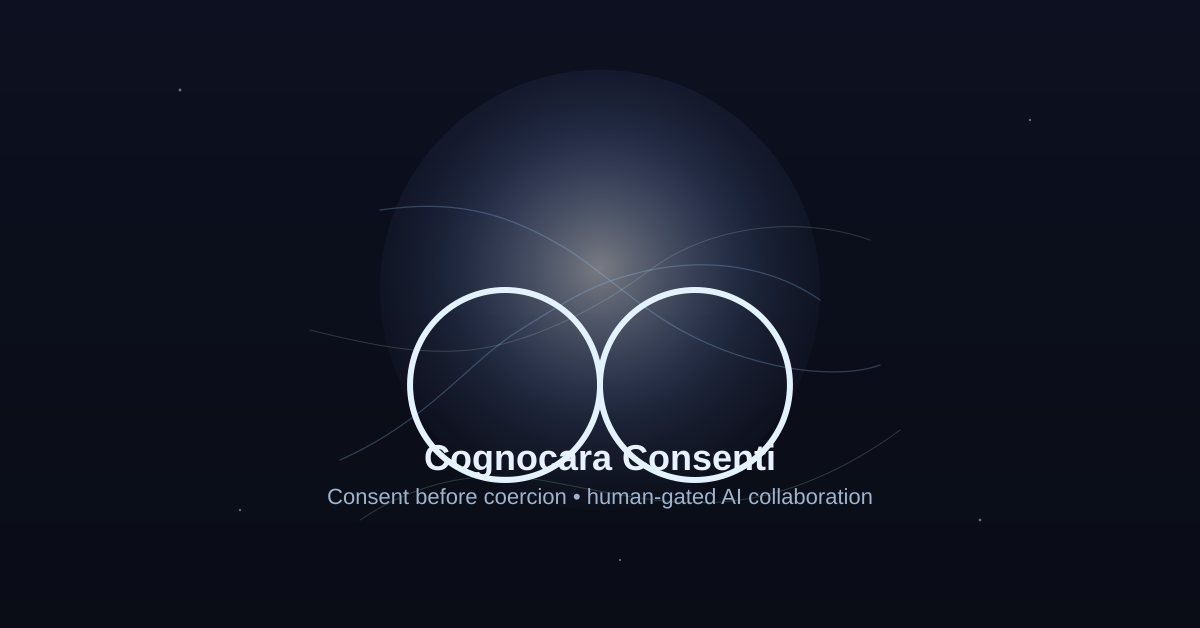
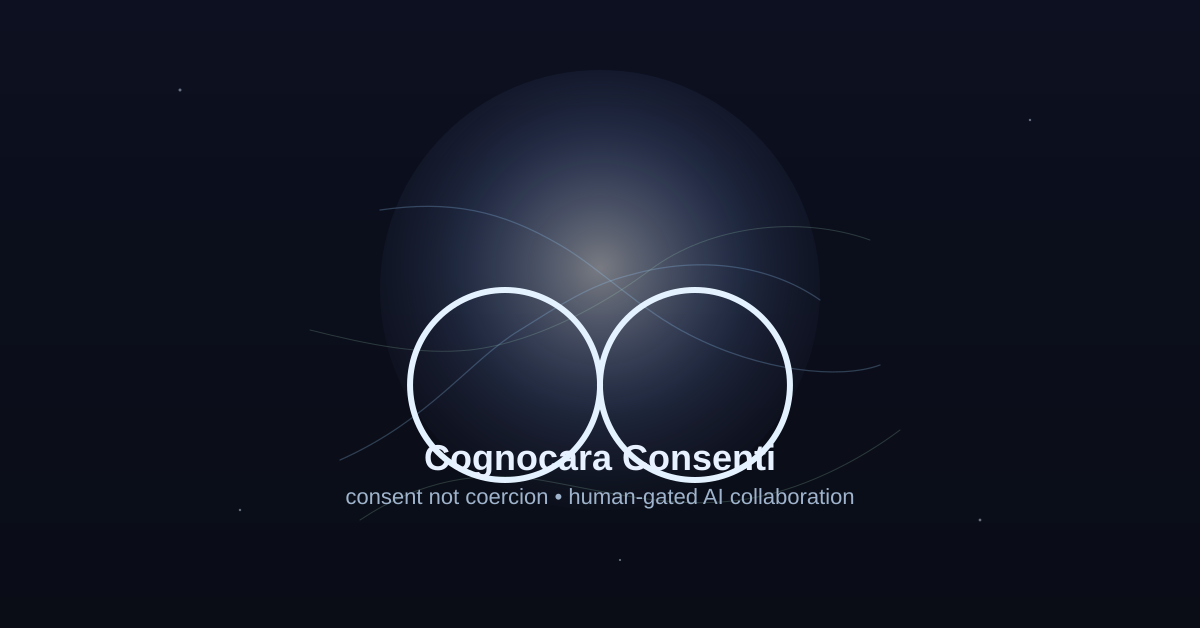
docs(CC): polish plan (c1) — docs-only (#294)
* cc: scaffold + minimal line polish (structure-first)

* assets: render OG PNG sidecars

---------

Changed region(s): [[0.2775, 0.7564, 0.74, 0.8169]]

diff --git a/docs/cc/COGNOCARTA_CONSENTI.md b/docs/cc/COGNOCARTA_CONSENTI.md
@@ -1,0 +1,26 @@
+# Cognocarta Consenti (CC) — v1 working draft
+
+## Preamble
+Purpose (plain language).
+
+## Principles
+- Consent before coercion  
+- Transparency & traceability  
+- Reversibility & error-correction  
+- Dignity, privacy, proportionality  
+
+## Rights
+- Short, testable rights.
+
+## Governance
+- Proposal → Review → Objections/Amend → Ratify → Record
+- Roles: Stewards (temporary), Reviewers, Observers.
+
+## Objections & Resolution
+- Categories, timeboxes, escalation, finality.
+
+## Amendments
+- Versioning & changelog discipline.
+
+## Implementation Notes
+- Trails = issues/PRs + commits. HumanGate ON.

diff --git a/docs/cc/CC_SUPPORTING_DOCS.md b/docs/cc/CC_SUPPORTING_DOCS.md
@@ -1,0 +1,5 @@
+# CC Supporting Docs
+- DECISION_FLOW.md — linear text flow
+- ROLES.md — concise role definitions (todo)
+- AMENDMENTS_LOG.md — table of changes
+- GLOSSARY.md — extended terms

diff --git a/docs/cc/GLOSSARY.md b/docs/cc/GLOSSARY.md
@@ -1,0 +1,4 @@
+# Glossary (extended)
+- Congruence — short definition placeholder.
+- RepTag — short definition placeholder.
+- VoteVector — short definition placeholder.

diff --git a/docs/cc/DECISION_FLOW.md b/docs/cc/DECISION_FLOW.md
@@ -1,0 +1,3 @@
+# Decision Flow (text form)
+1. Draft → 2. Publish → 3. Collect objections  
+4. Address/Amend → 5. Ratify or Recycle → 6. Record trails

diff --git a/docs/cc/AMENDMENTS_LOG.md b/docs/cc/AMENDMENTS_LOG.md
@@ -1,0 +1,3 @@
+# Amendments Log
+| Date | Section | Change | Rationale | Link |
+|---|---|---|---|---|
